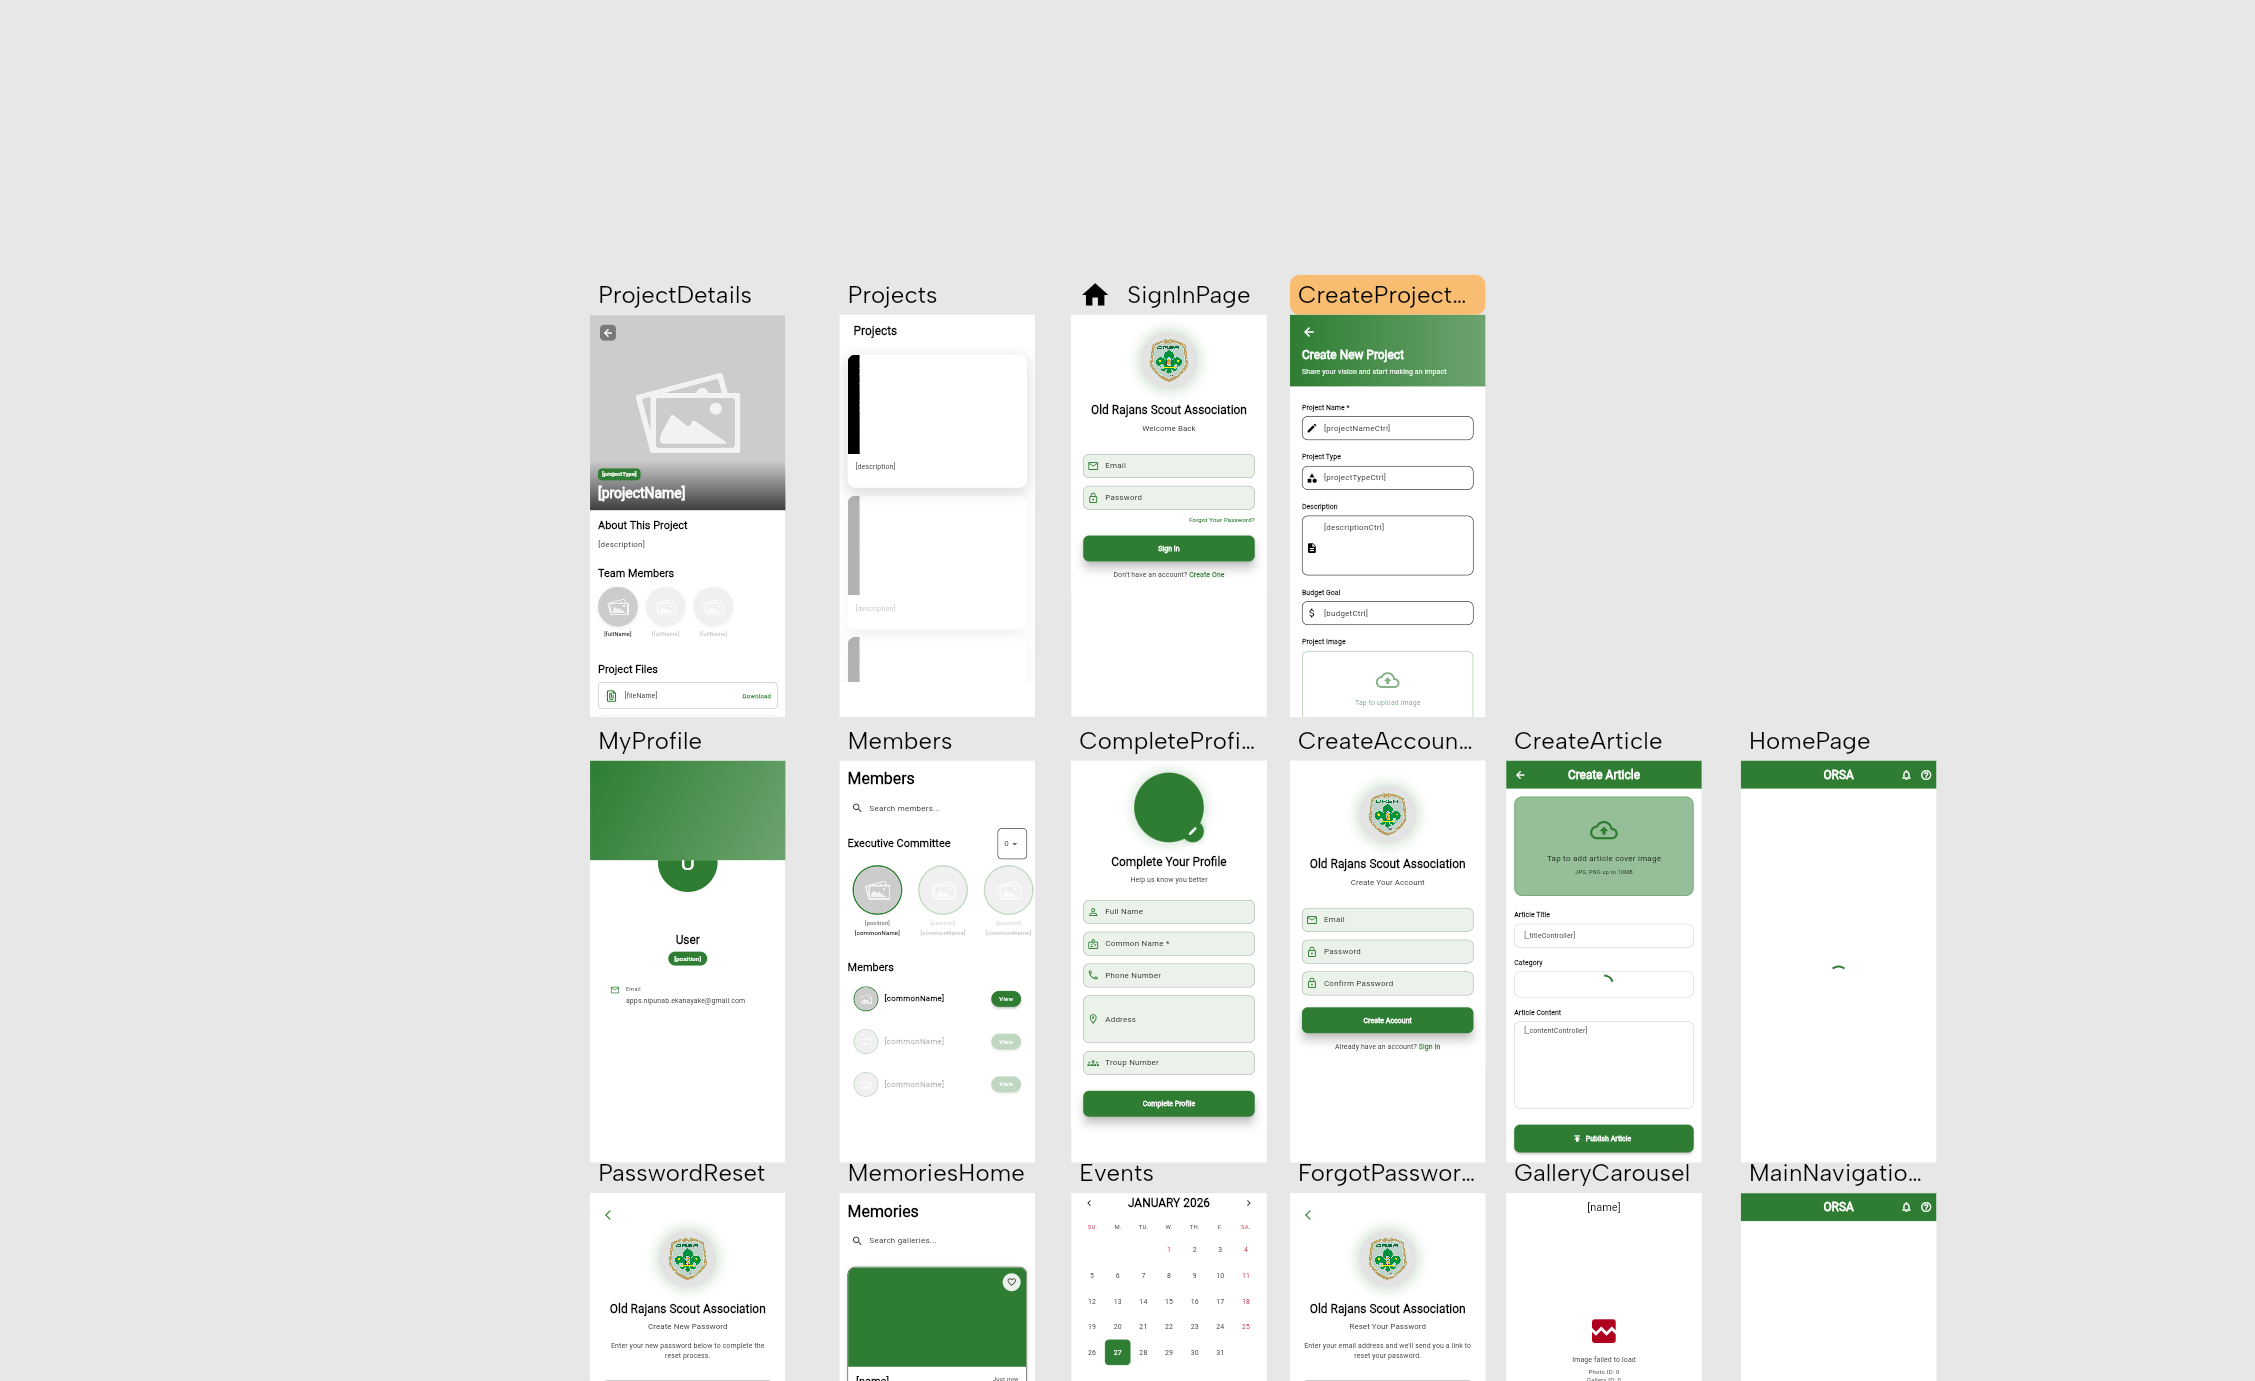
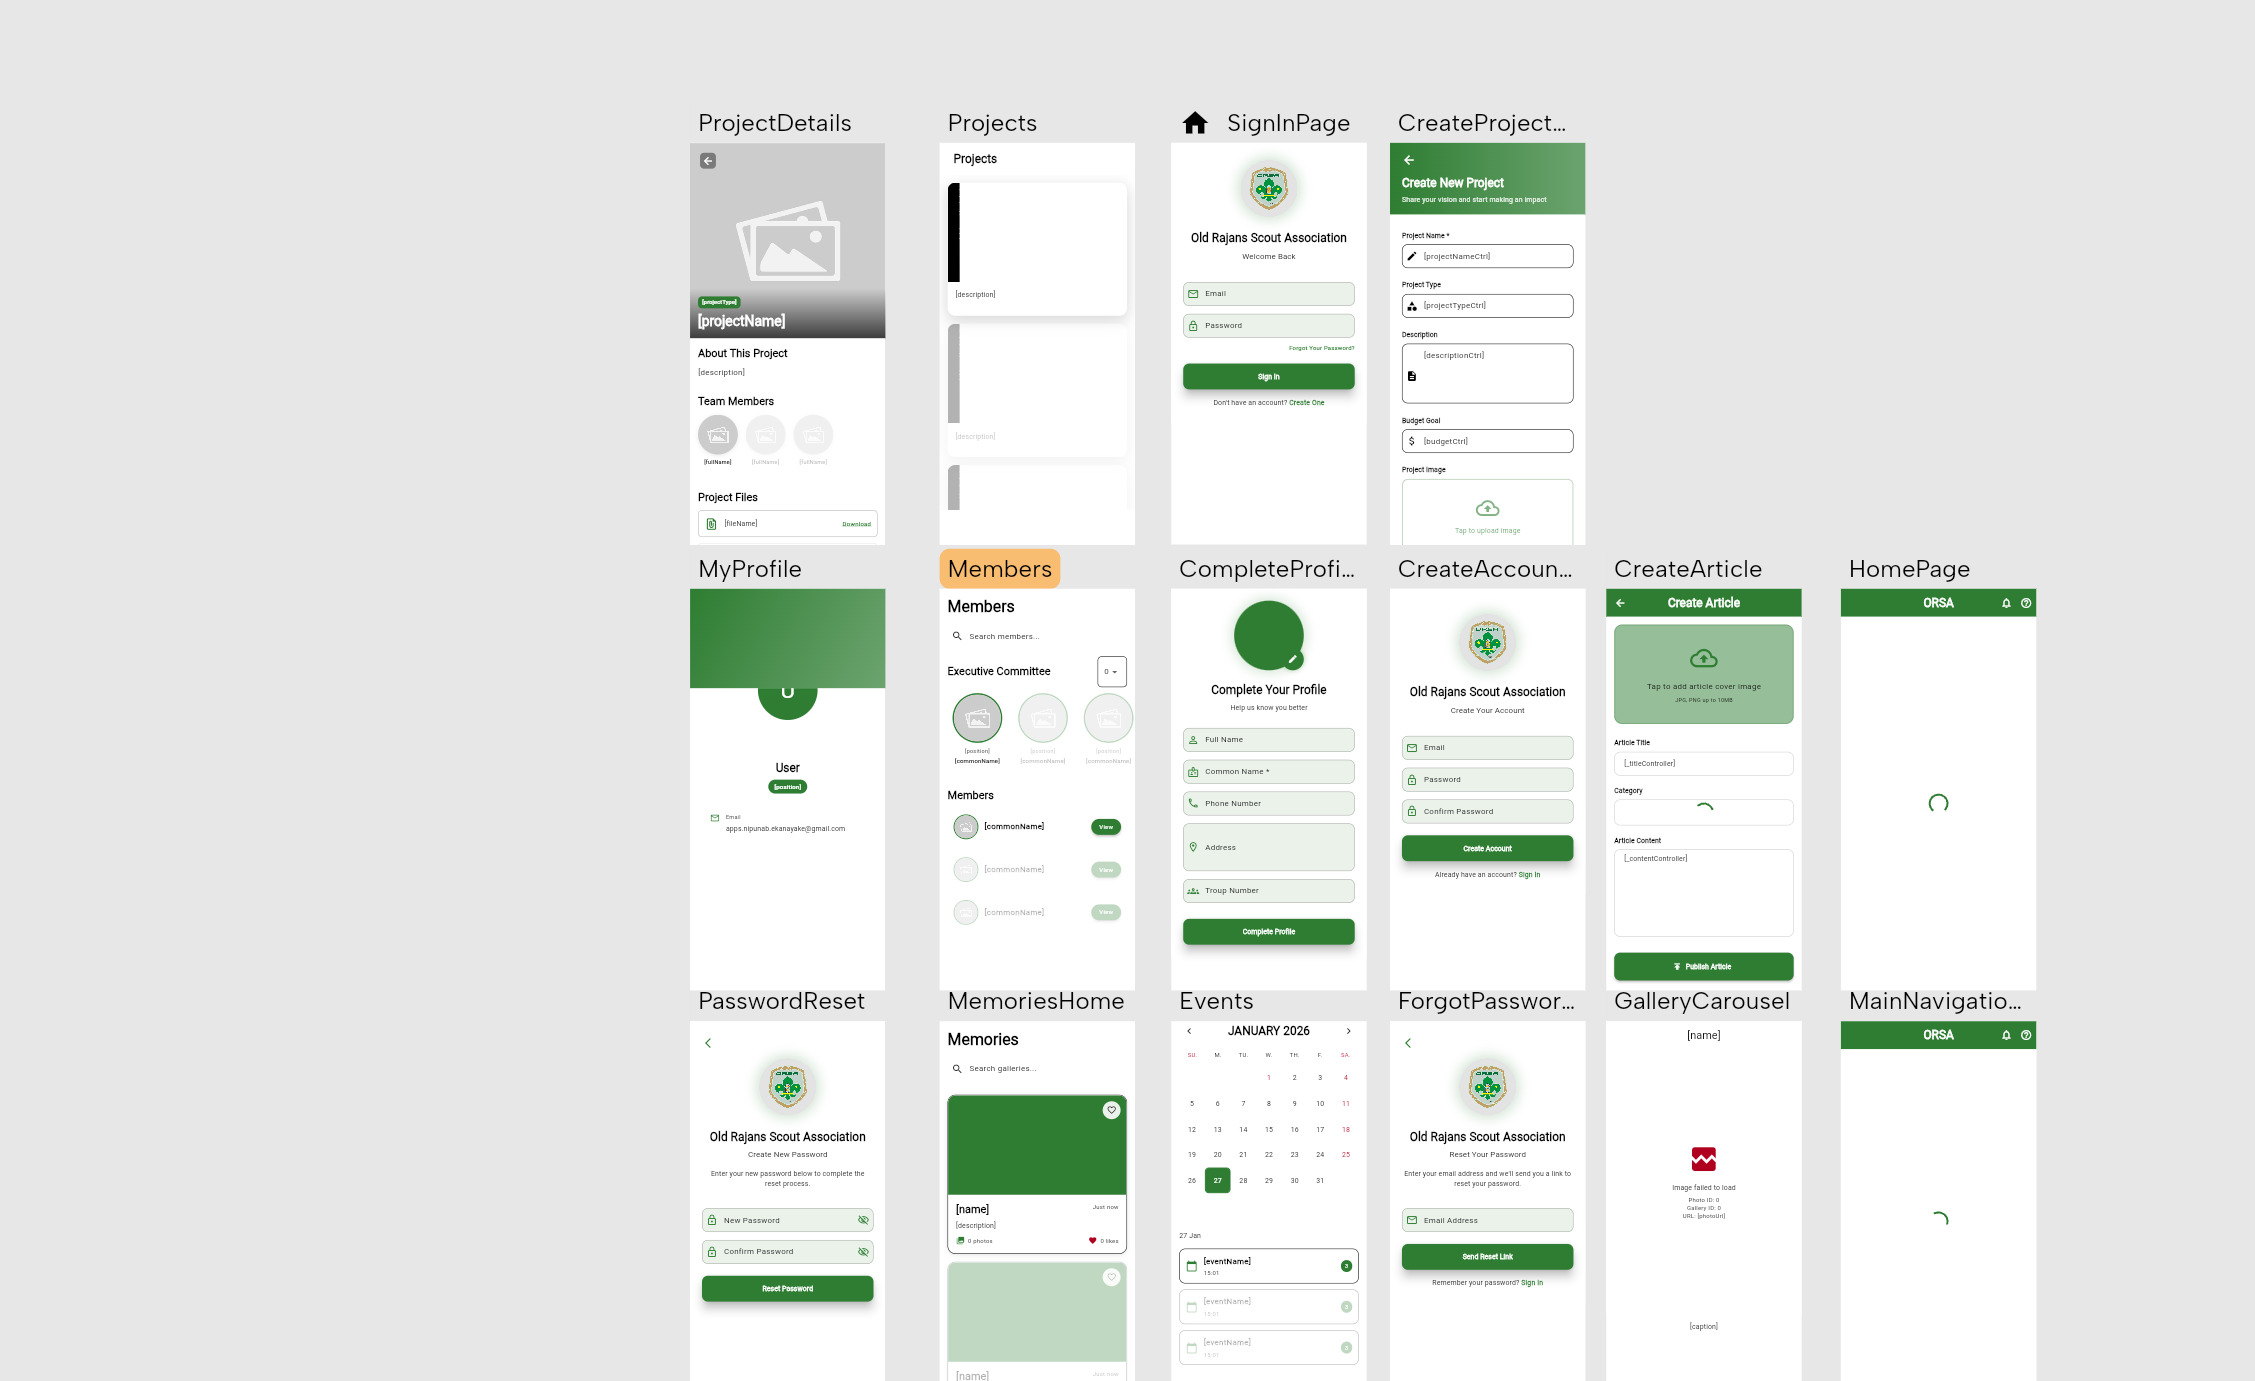
FAB in members page is removed

diff --git a/lib/pages/projects.dart b/lib/pages/projects.dart
@@ -3,6 +3,7 @@ import 'package:nowa_runtime/nowa_runtime.dart';
 import 'package:orsa_3/models/project_model.dart';
 import 'package:supabase_flutter/supabase_flutter.dart';
 import 'package:orsa_3/components/project_card.dart';
+import 'package:orsa_3/pages/create_project_page.dart';
 
 @NowaGenerated()
 class Projects extends StatelessWidget {
@@ -92,10 +93,10 @@ class Projects extends StatelessWidget {
           if (snapshot.hasData && snapshot.data == true) {
             return FloatingActionButton(
               onPressed: () {
-                ScaffoldMessenger.of(context).showSnackBar(
-                  const SnackBar(
-                    content: Text('New project action'),
-                    duration: Duration(seconds: 2),
+                Navigator.push(
+                  context,
+                  MaterialPageRoute(
+                    builder: (context) => const CreateProjectPage(),
                   ),
                 );
               },

diff --git a/lib/pages/members.dart b/lib/pages/members.dart
@@ -638,23 +638,7 @@ class _MembersState extends State<Members> {
           ),
         ),
       ),
-      floatingActionButton: canCreateContent
-          ? FloatingActionButton(
-              onPressed: () {
-                ScaffoldMessenger.of(context).showSnackBar(
-                  const SnackBar(
-                    content: Text('New member action'),
-                    duration: Duration(seconds: 2),
-                  ),
-                );
-              },
-              backgroundColor: Theme.of(context).colorScheme.primary,
-              child: Icon(
-                Icons.add,
-                color: Theme.of(context).colorScheme.onPrimary,
-              ),
-            )
-          : null,
+      floatingActionButton: null,
     );
   }
 }
